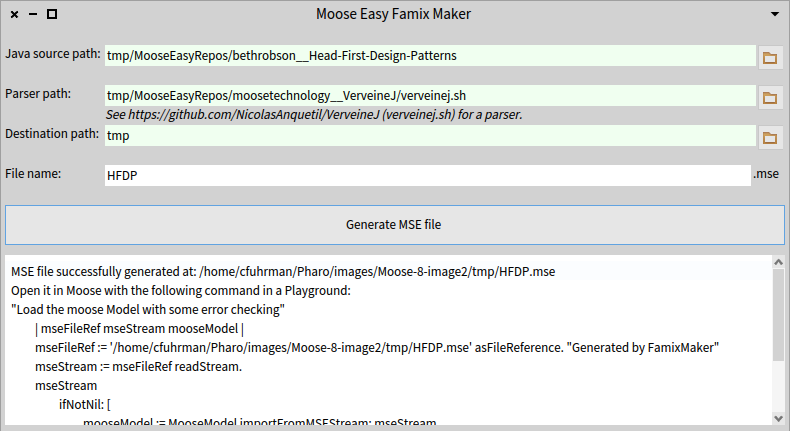
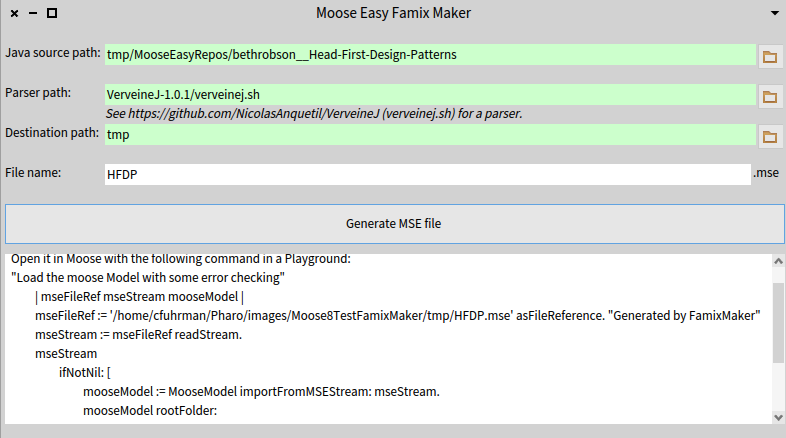
Install VerveineJ 1.0.1, hints for Windows 10

diff --git a/_posts/2019-07-29-AnalyzingJavaWithMoose.md b/_posts/2019-07-29-AnalyzingJavaWithMoose.md
@@ -13,7 +13,7 @@ background: '/img/posts/MooseMenus.jpg'
 
 Moose is a platform in Pharo that can manipulate models of software, to facilitate analyses including software data mining. In this blog post, I will show you a few features of Moose to analyze a Java project.
 
-> Note: Although Pharo is supported and is stable in Windows 10, there are some gotchas especially with long directory paths and spaces in file names that can crop up in this tutorial. It's possible to use [Pharo in WSL]({% post_url 2019-2-27-Pharo-in-WSL %}) and avoid these pitfalls. If you're going to do a lot of work with Pharo in Windows, I highly recommend checking out WSL!
+> Note: Although Pharo is supported and is stable in Windows 10, there can be some problems, especially with long directory paths and spaces in file names, that can occur in this tutorial. It's possible to use [Pharo in WSL]({% post_url 2019-2-27-Pharo-in-WSL %}) and avoid these pitfalls. If you're going to do a lot of work with Pharo in Windows, I highly recommend checking out WSL!
 
 ## Analysis overview
 
@@ -29,10 +29,11 @@ PlantUML is used to create class diagrams of the software in Moose (this is opti
 
 To make this post, I used Moose 8 in Pharo 8, both of which were in development stage at the time of writing this. Here's a simple way to get it running:
 
-- [Install the Pharo Launcher](http://pharo.org/download).
+- [Install the Pharo Launcher](http://pharo.org/download) and start it.
+- **Important for Windows 10:** click on the **VMs** button in Pharo Launcher and click the **Update** button to make sure you have the latest (most stable) Pharo virtual machines.
 - Create a copy of the image of Moose-8 from the Inria CI:
   **New Image Templates \> Official distributions \> Moose Suite 8.0 (development version) \> Create image**  
-  > Note: Windows 10 users will want to remove the spaces from the name of the image, or it will cause problems in the scripts in this tutorial. You can name the image **Moose8JavaTutorial** for example.
+  > **Warning:** Windows 10 users will want to remove the spaces from the name of the image, or else they may cause problems in the scripts in this tutorial. You can name the image **Moose8JavaTutorial**, for example.
 - Launch the image once it has downloaded.
 
 ## Clone the Java project you want to analyze
@@ -54,7 +55,9 @@ This will create a clone of the Java repo from GitHub in your Pharo working dire
 
 > Note that we are *not* using `Iceberg` to make this clone, but a `git clone` command run in a Bourne shell via [`LibC` in Pharo]({% post_url 2019-03-16-LibC-Pharo-experiments %}). We chose not to use Iceberg because the command runs faster, and there is no memory allocated in the Pharo image for the repository. 
 
-> In Pharo under Windows, you will see a `cmd.exe` window pop-up during the execution of the command. This is a known "gotcha" also discussed in the `LibC` post. 
+> If you want to analyze Java source code, you can use *any* directory -- it doesn't have to be a git repository and you don't have to create it using the above command.
+
+> In Pharo under Windows, you will briefly see a `cmd.exe` window appear during the execution of the command. This is a "gotcha" also discussed in the `LibC` post. 
 
 ## Parse Java to make FAMIX model
 
@@ -63,21 +66,39 @@ This will create a clone of the Java repo from GitHub in your Pharo working dire
 Once we have a local copy (clone) of the source code, we can make the FAMIX model of it using a parser such as [VerveineJ](https://github.com/moosetechnology/VerveineJ), which is supported by Moose-Easy. To install VerveineJ for our purposes, it's simple:
 
 - Make sure a Java Runtime Environment (`java` command) is in the execution path of your system.
-- Make a clone of the VerveineJ parser (which is itself a Java project on GitHub) with the following command in a Moose Playground:  
+- Download and unzip VerveineJ 1.0 with the following commands in a Moose Playground:  
+
 ```smalltalk
-verveineJFileRef := MooseEasyUtility cloneGitHubRepo:
-    'https://github.com/moosetechnology/VerveineJ'.
-```
+UIManager default
+    informUserDuring: [ :bar | 
+        bar label: 'Downloading VerveineJ 1.0.1...'.
+        [ | client |
+        client := ZnClient new.
+        client
+            signalProgress: true;
+            url: 'https://github.com/moosetechnology/VerveineJ/archive/v1.0.1.zip';
+            downloadTo: FileLocator imageDirectory.
+        client isSuccess
+            ifTrue: [ ZipArchive new
+                    readFrom: 'v1.0.1.zip';
+                    extractAllTo: FileLocator imageDirectory.
 
-> This will take some time, because the parser is bigger than the small source code project we cloned first. In Windows, you'll see the `cmd.exe` window stay up until the command is completed - it's normal. 
+                "Since permissions are not preserved with ZipArchive#extractAllTo:"
+                LibC runCommand: 'chmod u+x VerveineJ-1.0.1/verveinej.sh' ]
+            ifFalse: [ self inform: 'Download failed.' ] ]
+            on: HTTPProgress
+            do: [ :progress | 
+                bar label: progress printString.
+                progress isEmpty
+                    ifFalse: [ bar current: progress percentage ].
+                progress resume ] ]
+``` 
 
-As before, the clone will be in your Pharo working directory, with a relative path of `tmp/MooseEasyRepos/moosetechnology__VerveineJ`.
-
-> Note there is no need to compile VerveineJ, since its repository normally has the binary jar files (also a reason why it takes longer to clone).
+If the download works, the VerveineJ importer will be in your Pharo working directory, with a relative path of `VerveineJ-1.0.1`.
 
 Once you have VerveineJ, there are two ways to create the FAMIX model from the Java source code:
 
-1. Start the `FamixMaker` tool in the menu **Moose > Moose Tools > Famix Maker** (or you can execute `MooseEasyFamixMakerPresenter open` in a Moose Playground). You supply the paths to the source code, the VerveineJ parser script `verveinej.sh` and the destination MSE (FAMIX) file. With the relative paths of the examples above, the Java source to parse is at `tmp/MooseEasyRepos/bethrobson__Head-First-Design-Patterns`, the VerveineJ parser is at `tmp/MooseEasyRepos/moosetechnology__VerveineJ/verveinej.sh` and we choose the name `HFDP.mse` to be the MSE file to be stored in `tmp`:  
+1. Start the `FamixMaker` tool in the menu **Moose > Moose Tools > Famix Maker** (or you can execute `MooseEasyFamixMakerPresenter open` in a Moose Playground). You supply the paths to the source code, the VerveineJ parser script `verveinej.sh` and the destination MSE (FAMIX) file. With the relative paths of the examples above, the Java source to parse is at `tmp/MooseEasyRepos/bethrobson__Head-First-Design-Patterns`, the VerveineJ parser is at `VerveineJ-1.0.1/verveinej.sh` and we choose the name `HFDP.mse` to be the MSE file to be stored in `tmp`:  
 [![Famix Maker Dialog]({{site.baseurl}}/img/posts/FamixMakerDialog.png){:class="img-responsive"}]({{site.baseurl}}/img/posts/FamixMakerDialog.png)  
 Click **Generate MSE File** when all the fields are correct. As before, in Windows you will see the `cmd.exe` window and even the execution of a shell script.
 
@@ -86,7 +107,7 @@ Click **Generate MSE File** when all the fields are correct. As before, in Windo
 wizard := MooseEasyFamixMaker
 		generateMSETo: 'tmp/HFDP.mse' asFileReference
 		parsing: 'tmp/MooseEasyRepos/bethrobson__Head-First-Design-Patterns' asFileReference
-		with: 'tmp/MooseEasyRepos/moosetechnology__VerveineJ/verveinej.sh' asFileReference.
+		with: 'VerveineJ-1.0.1/verveinej.sh' asFileReference.
 wizard generateMSE.
 ```
 
@@ -141,7 +162,7 @@ In this example, we will focus on a particular package: `headfirst::designpatter
 each mooseName beginsWith: 'headfirst::designpatterns::combining::decorator'
 ```
 
-Press return to accept the filter, and you should see a new list:
+Press <kbd>Enter</kbd> to accept the filter, and you should see a new list:
 
 [![PlantUMLGizmoMoose Dialog]({{site.baseurl}}/img/posts/PlantUMLMooseClassesFiltered.png){:class="img-responsive"}]({{site.baseurl}}/img/posts/PlantUMLMooseClassesFiltered.png)
 
